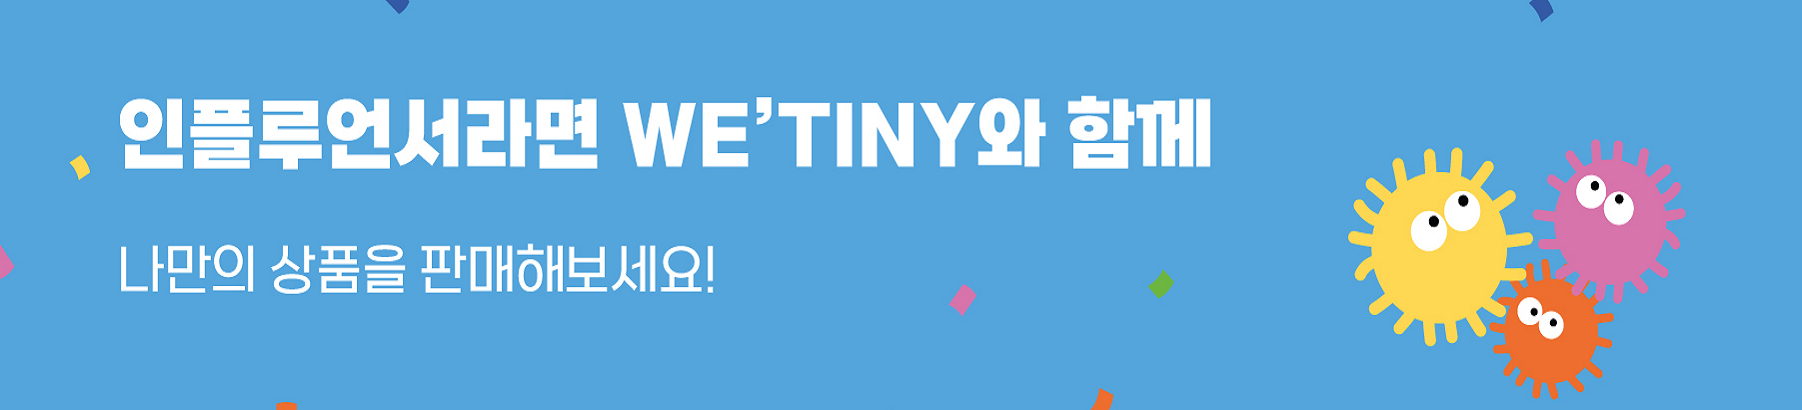
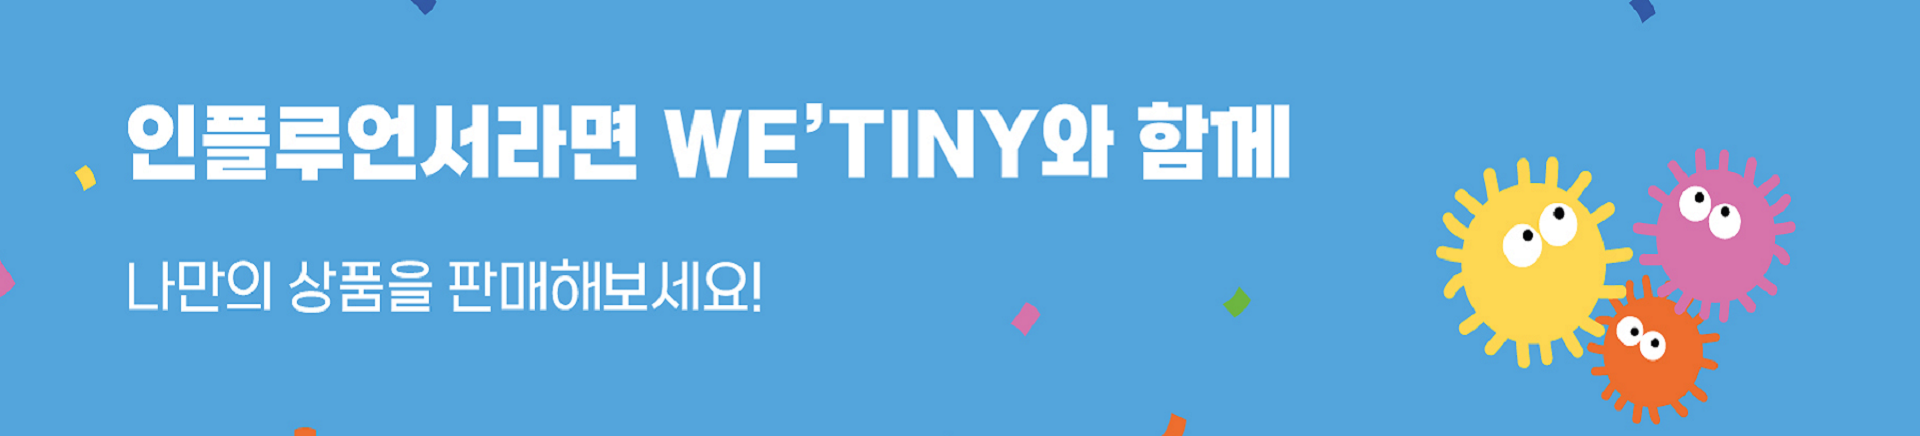
이미지 수정

diff --git a/seller/client/src/components/css/pages/Main.css b/seller/client/src/components/css/pages/Main.css
@@ -6,6 +6,8 @@
 */
  .carousel {
   position: relative;
+  
+  
 }
 .carousel.pointer-event {
   touch-action: pan-y;
@@ -29,6 +31,8 @@
   -webkit-backface-visibility: hidden;
   backface-visibility: hidden;
   transition: transform 0.6s ease-in-out;
+
+
 }
 @media (prefers-reduced-motion: reduce) {
   .carousel-item {
@@ -305,8 +309,9 @@
   color: #000;
 }
 .banner-con {
-  width: 1400px;
+  width: 100vw;
   margin: 0 auto;
   margin-bottom: 20px;
+  
 }
 
